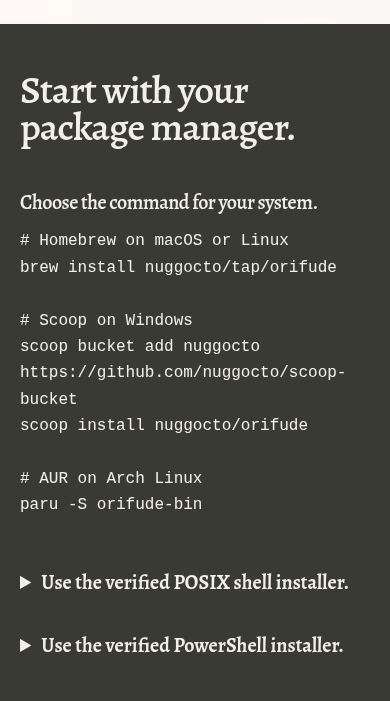
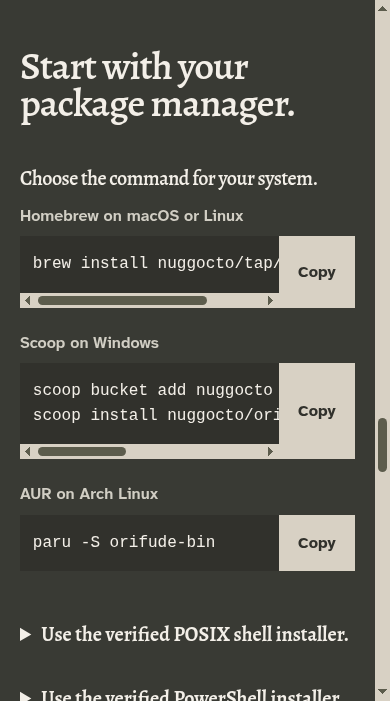
Add copyable release commands
Make package commands, verified installers, and release checksums easier to inspect and copy across desktop and mobile. Keep the clipboard helper same-origin so the strict production CSP remains intact.

diff --git a/src/styles/global.css b/src/styles/global.css
@@ -156,6 +156,17 @@ pre {
   transform: translateY(0);
 }
 
+.visually-hidden {
+  position: absolute;
+  width: 1px;
+  height: 1px;
+  padding: 0;
+  overflow: hidden;
+  clip: rect(0, 0, 0, 0);
+  white-space: nowrap;
+  border: 0;
+}
+
 .site-shell {
   overflow: clip;
 }
@@ -609,16 +620,20 @@ pre {
 
 .archive-intro {
   display: grid;
-  grid-template-columns: minmax(0, 1.2fr) minmax(20rem, 0.8fr);
-  gap: clamp(3rem, 8vw, 8rem);
+  grid-template-columns: minmax(0, 1.35fr) minmax(20rem, 0.65fr);
+  gap: clamp(3rem, 5vw, 5rem);
   align-items: end;
   margin: clamp(6rem, 11vw, 11rem) 0 clamp(4rem, 7vw, 7rem);
 }
 
 .archive-intro h3 {
-  max-width: 18ch;
+  max-width: 22ch;
   margin-bottom: 0;
   font-size: var(--text-display);
+}
+
+.archive-intro h3 span {
+  display: block;
 }
 
 .archive-intro p {
@@ -665,15 +680,6 @@ pre {
   font-family: var(--body);
   font-size: var(--text-body);
   font-weight: 500;
-}
-
-.artifact-group code {
-  display: block;
-  margin-top: 0.75rem;
-  overflow-wrap: anywhere;
-  color: var(--ink-soft);
-  font-size: var(--text-body);
-  line-height: 1.45;
 }
 
 .checksum-link {
@@ -753,15 +759,84 @@ pre {
   margin-bottom: 1rem;
 }
 
-.install-paths pre {
+.package-commands {
+  display: grid;
+  gap: 1.5rem;
+}
+
+.package-command h5 {
+  margin: 0 0 0.55rem;
+  color: #d1cec4;
+  font-family: var(--body);
+  font-size: var(--text-body);
+  font-weight: 650;
+  line-height: 1.4;
+}
+
+.copyable-code {
+  position: relative;
+  display: grid;
+  grid-template-columns: minmax(0, 1fr) auto;
+  align-items: stretch;
+  max-width: 100%;
+}
+
+.copyable-code pre {
   max-width: 100%;
   margin: 0;
+  padding: 1rem 1.15rem;
   overflow-x: auto;
   color: var(--proof-ink);
-  overflow-wrap: anywhere;
+  background: var(--ink);
+  overflow-wrap: normal;
   font-size: var(--text-body);
-  line-height: 1.65;
+  line-height: 1.55;
+  white-space: pre;
+}
+
+.copy-button {
+  min-width: 5rem;
+  padding: 0.75rem 0.9rem;
+  border: 0;
+  color: var(--ink);
+  background: var(--paper-deep);
+  font-family: var(--body);
+  font-size: var(--text-body);
+  font-weight: 750;
+  cursor: pointer;
+  transition:
+    color 160ms ease-out,
+    background-color 160ms ease-out;
+}
+
+.copy-button:hover,
+.copy-button:focus-visible {
+  color: var(--paper-light);
+  background: var(--clay);
+}
+
+.copyable-code--compact {
+  margin-top: 0.75rem;
+}
+
+.copyable-code--compact pre {
+  padding: 0.8rem 1rem;
+  overflow: hidden;
+  color: var(--ink-soft);
+  background: var(--paper-light);
+  overflow-wrap: anywhere;
+  line-height: 1.45;
   white-space: pre-wrap;
+}
+
+.copyable-code--compact .copy-button {
+  color: var(--paper-light);
+  background: var(--moss);
+}
+
+.copyable-code--compact .copy-button:hover,
+.copyable-code--compact .copy-button:focus-visible {
+  background: var(--ink);
 }
 
 .install-paths summary {
@@ -1028,6 +1103,14 @@ pre {
     grid-template-columns: 1fr;
   }
 
+  .archive-intro h3 span {
+    display: inline;
+  }
+
+  .archive-intro h3 span + span::before {
+    content: " ";
+  }
+
   .journey {
     gap: 3rem;
   }
@@ -1187,6 +1270,19 @@ pre {
 
   .artifact-group a {
     padding: 0.7rem 0.8rem;
+  }
+
+  .copyable-code {
+    grid-template-columns: minmax(0, 1fr) 4.75rem;
+  }
+
+  .copyable-code pre {
+    padding-inline: 0.8rem;
+  }
+
+  .copy-button {
+    min-width: 0;
+    padding-inline: 0.55rem;
   }
 
   .faq details {

diff --git a/public/scripts/copy-code.js b/public/scripts/copy-code.js
@@ -1,0 +1,54 @@
+const resetDelay = 1800;
+
+function copyWithSelection(value) {
+  const field = document.createElement("textarea");
+  field.value = value;
+  field.setAttribute("readonly", "");
+  field.style.position = "fixed";
+  field.style.opacity = "0";
+  document.body.append(field);
+  field.select();
+  const copied = document.execCommand("copy");
+  field.remove();
+  return copied;
+}
+
+async function copyText(value) {
+  if (navigator.clipboard?.writeText) {
+    try {
+      await navigator.clipboard.writeText(value);
+      return true;
+    } catch {
+      // Some browsers expose the API while denying clipboard permission.
+    }
+  }
+
+  return copyWithSelection(value);
+}
+
+document.querySelectorAll("[data-copy-button]").forEach((button) => {
+  button.addEventListener("click", async () => {
+    const container = button.closest(".copyable-code");
+    const code = container?.querySelector("code");
+    const status = container?.querySelector("[data-copy-status]");
+    const value = code?.textContent ?? "";
+    const originalLabel = button.getAttribute("aria-label") ?? "Copy text";
+
+    try {
+      if (!(await copyText(value))) {
+        throw new Error("Clipboard unavailable");
+      }
+
+      button.textContent = "Copied";
+      if (status) status.textContent = `${originalLabel.replace(/^Copy /, "")} copied.`;
+    } catch {
+      button.textContent = "Failed";
+      if (status) status.textContent = "Copy failed. Select the text and copy it manually.";
+    }
+
+    window.setTimeout(() => {
+      button.textContent = "Copy";
+      if (status) status.textContent = "";
+    }, resetDelay);
+  });
+});

diff --git a/DESIGN.md b/DESIGN.md
@@ -70,6 +70,22 @@ components:
     textColor: "{colors.paper-light}"
     typography: "{typography.title}"
     padding: "0.9rem 1rem"
+  copy-action:
+    backgroundColor: "{colors.paper-deep}"
+    textColor: "{colors.ink}"
+    typography: "{typography.body}"
+    padding: "0.75rem 0.9rem"
+  copy-action-hover:
+    backgroundColor: "{colors.clay}"
+    textColor: "{colors.paper-light}"
+  copy-action-compact:
+    backgroundColor: "{colors.moss}"
+    textColor: "{colors.paper-light}"
+    typography: "{typography.body}"
+    padding: "0.75rem 0.9rem"
+  copy-action-compact-hover:
+    backgroundColor: "{colors.ink}"
+    textColor: "{colors.paper-light}"
 ---
 
 # Design System: Orifude
@@ -204,6 +220,14 @@ Opening the transcript removes clipping and rotation from the whole proof sheet,
 ### Install and archive controls
 
 The package-manager block is one broad proof-charcoal field. On desktop, the large literary heading and literal monospace commands sit on the left. Native disclosures for the verified POSIX and PowerShell installers sit on the right, with the package-manager explanation beneath them. Below 58rem, those groups become one column in the same semantic order. The manual archive section follows, grouped by operating system. Moss artifact actions pair architecture and format, while the full SHA-256 value remains visible below each action.
+
+### Copyable code
+
+Commands and SHA-256 values use the same two-column control: code beside a native `Copy` button. Each route supplies a specific accessible label for the value, such as a Homebrew command or a Linux amd64 checksum. The visible button changes to `Copied` or `Failed` for 1.8 seconds, while a hidden polite live region announces the labeled success or tells the visitor to select and copy the text manually.
+
+The command variant keeps every line complete with preformatted whitespace and horizontal scrolling inside the code area. It never wraps a command to fit the viewport. The compact checksum variant uses a light-paper code field, permits wrapping anywhere in the hash, and gives the adjacent action a moss field. Both variants keep technical text and the control label at the existing body size, so this pattern does not add a font family or size tier.
+
+Clipboard behavior lives in the same-origin external `/scripts/copy-code.js` file. Keep the strict `script-src 'self'` policy. Do not move the behavior into inline script or add `unsafe-inline`.
 
 ### Disclosure grid
 
